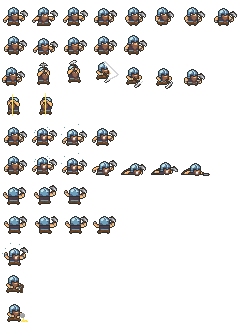
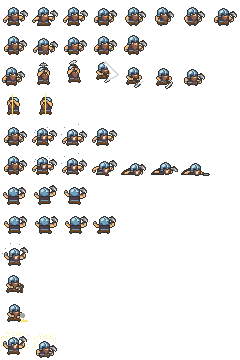
Add victory sprites

diff --git a/gui/godot/assets/crop_sprites.py b/gui/godot/assets/crop_sprites.py
@@ -18,7 +18,9 @@ timelines = [
     'climb_vertical',
     'climb_horizontal',
     'fall',
-    'pull_rope']
+    'pull_rope',
+    'put_rope',
+    'victory']
 if sys.argv[3]:
     timelines = [timelines[int(sys.argv[3])]]
 y_plus = [0]*len(timelines)
